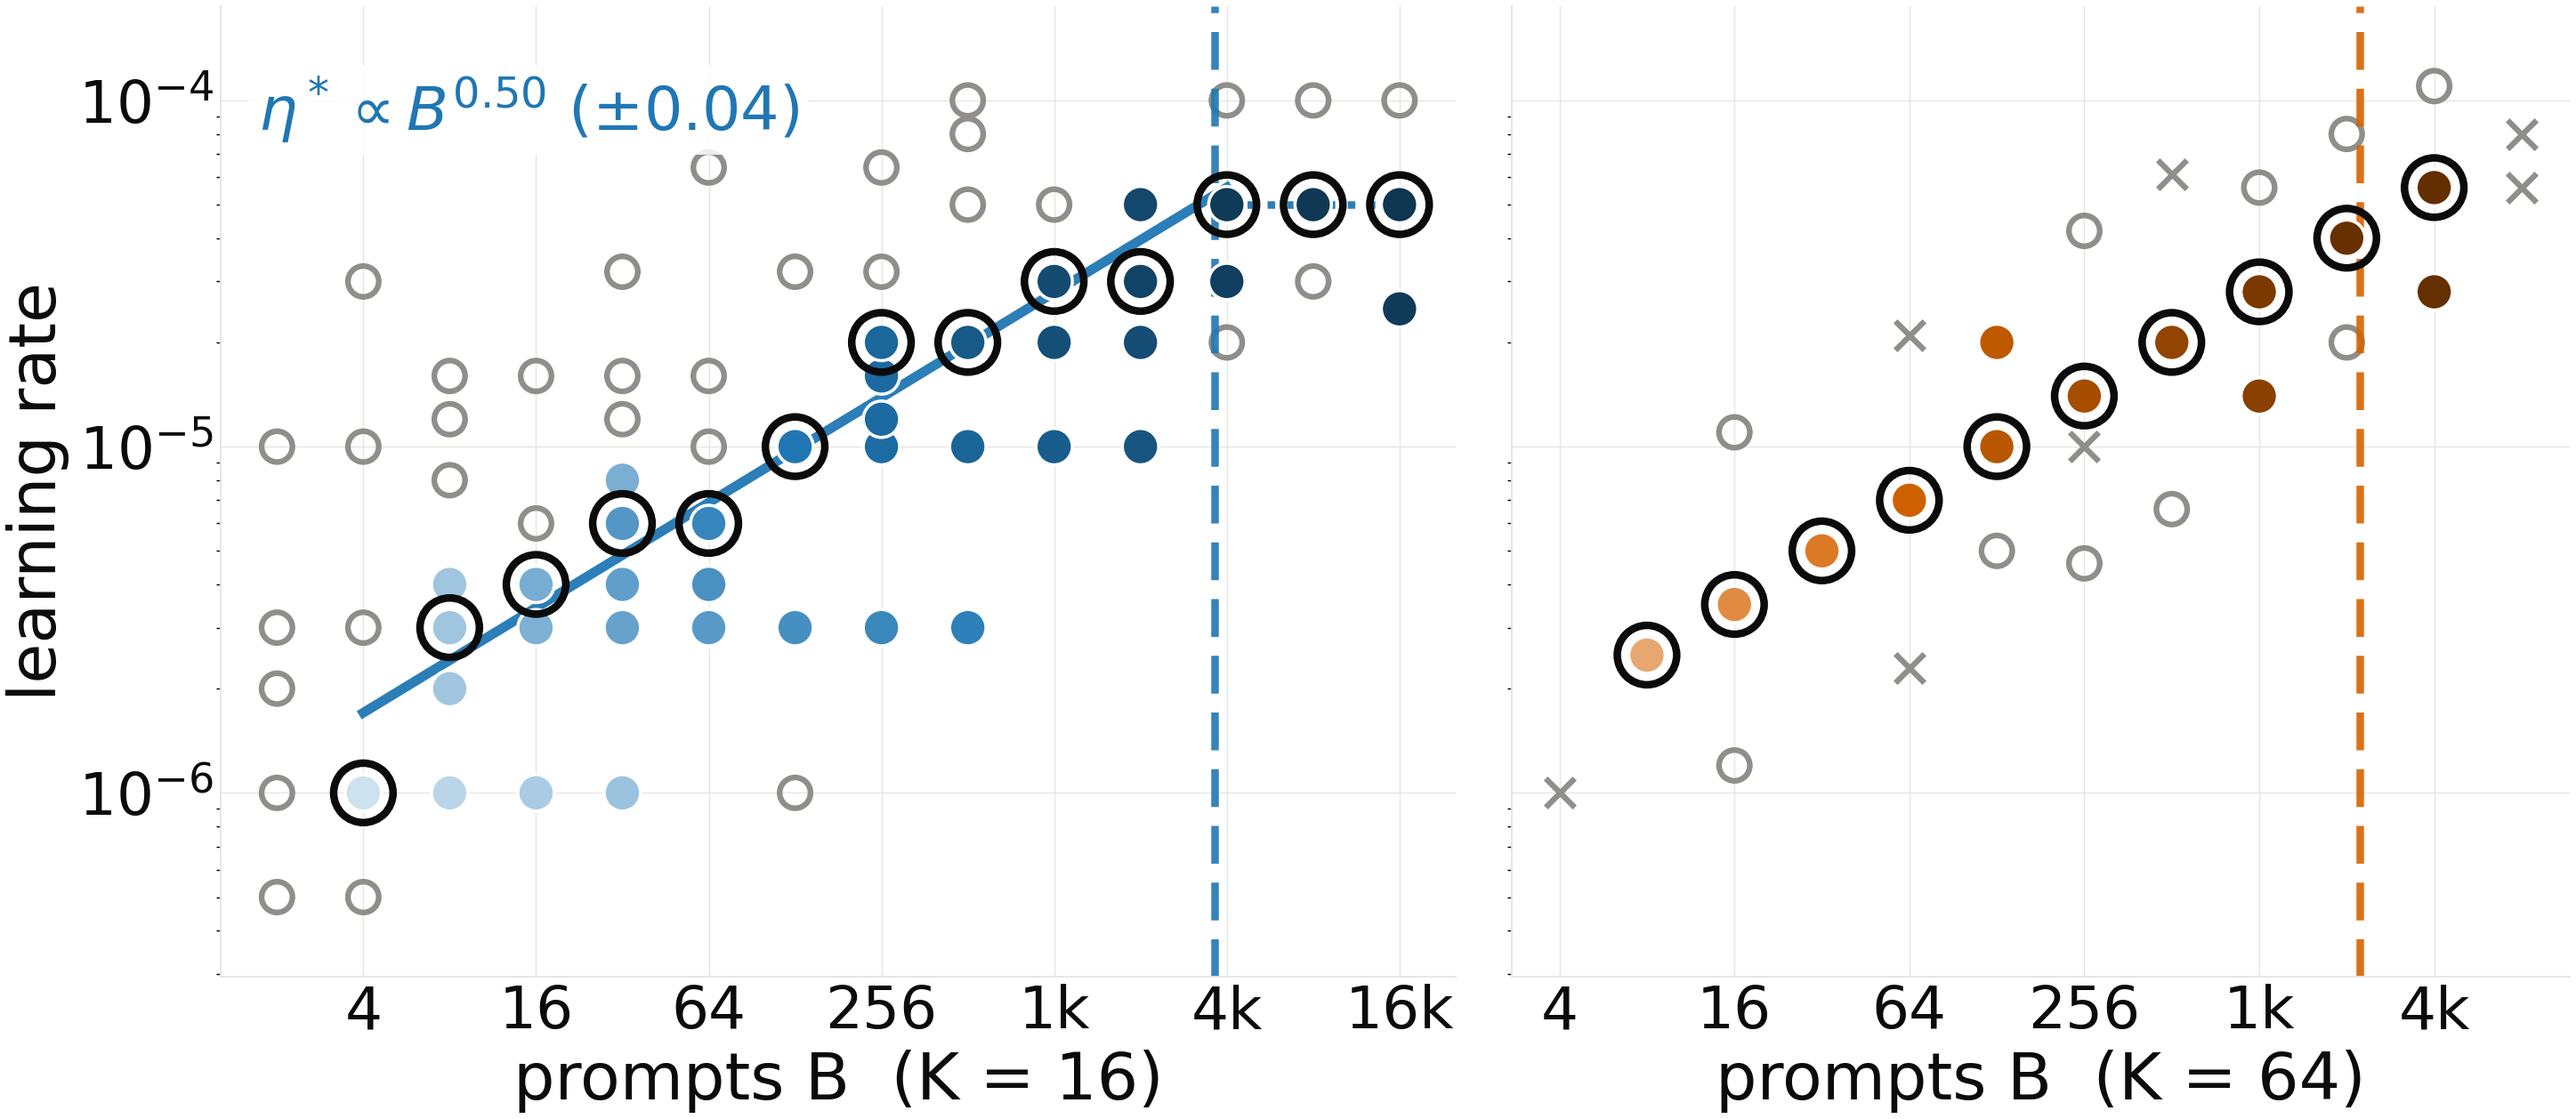
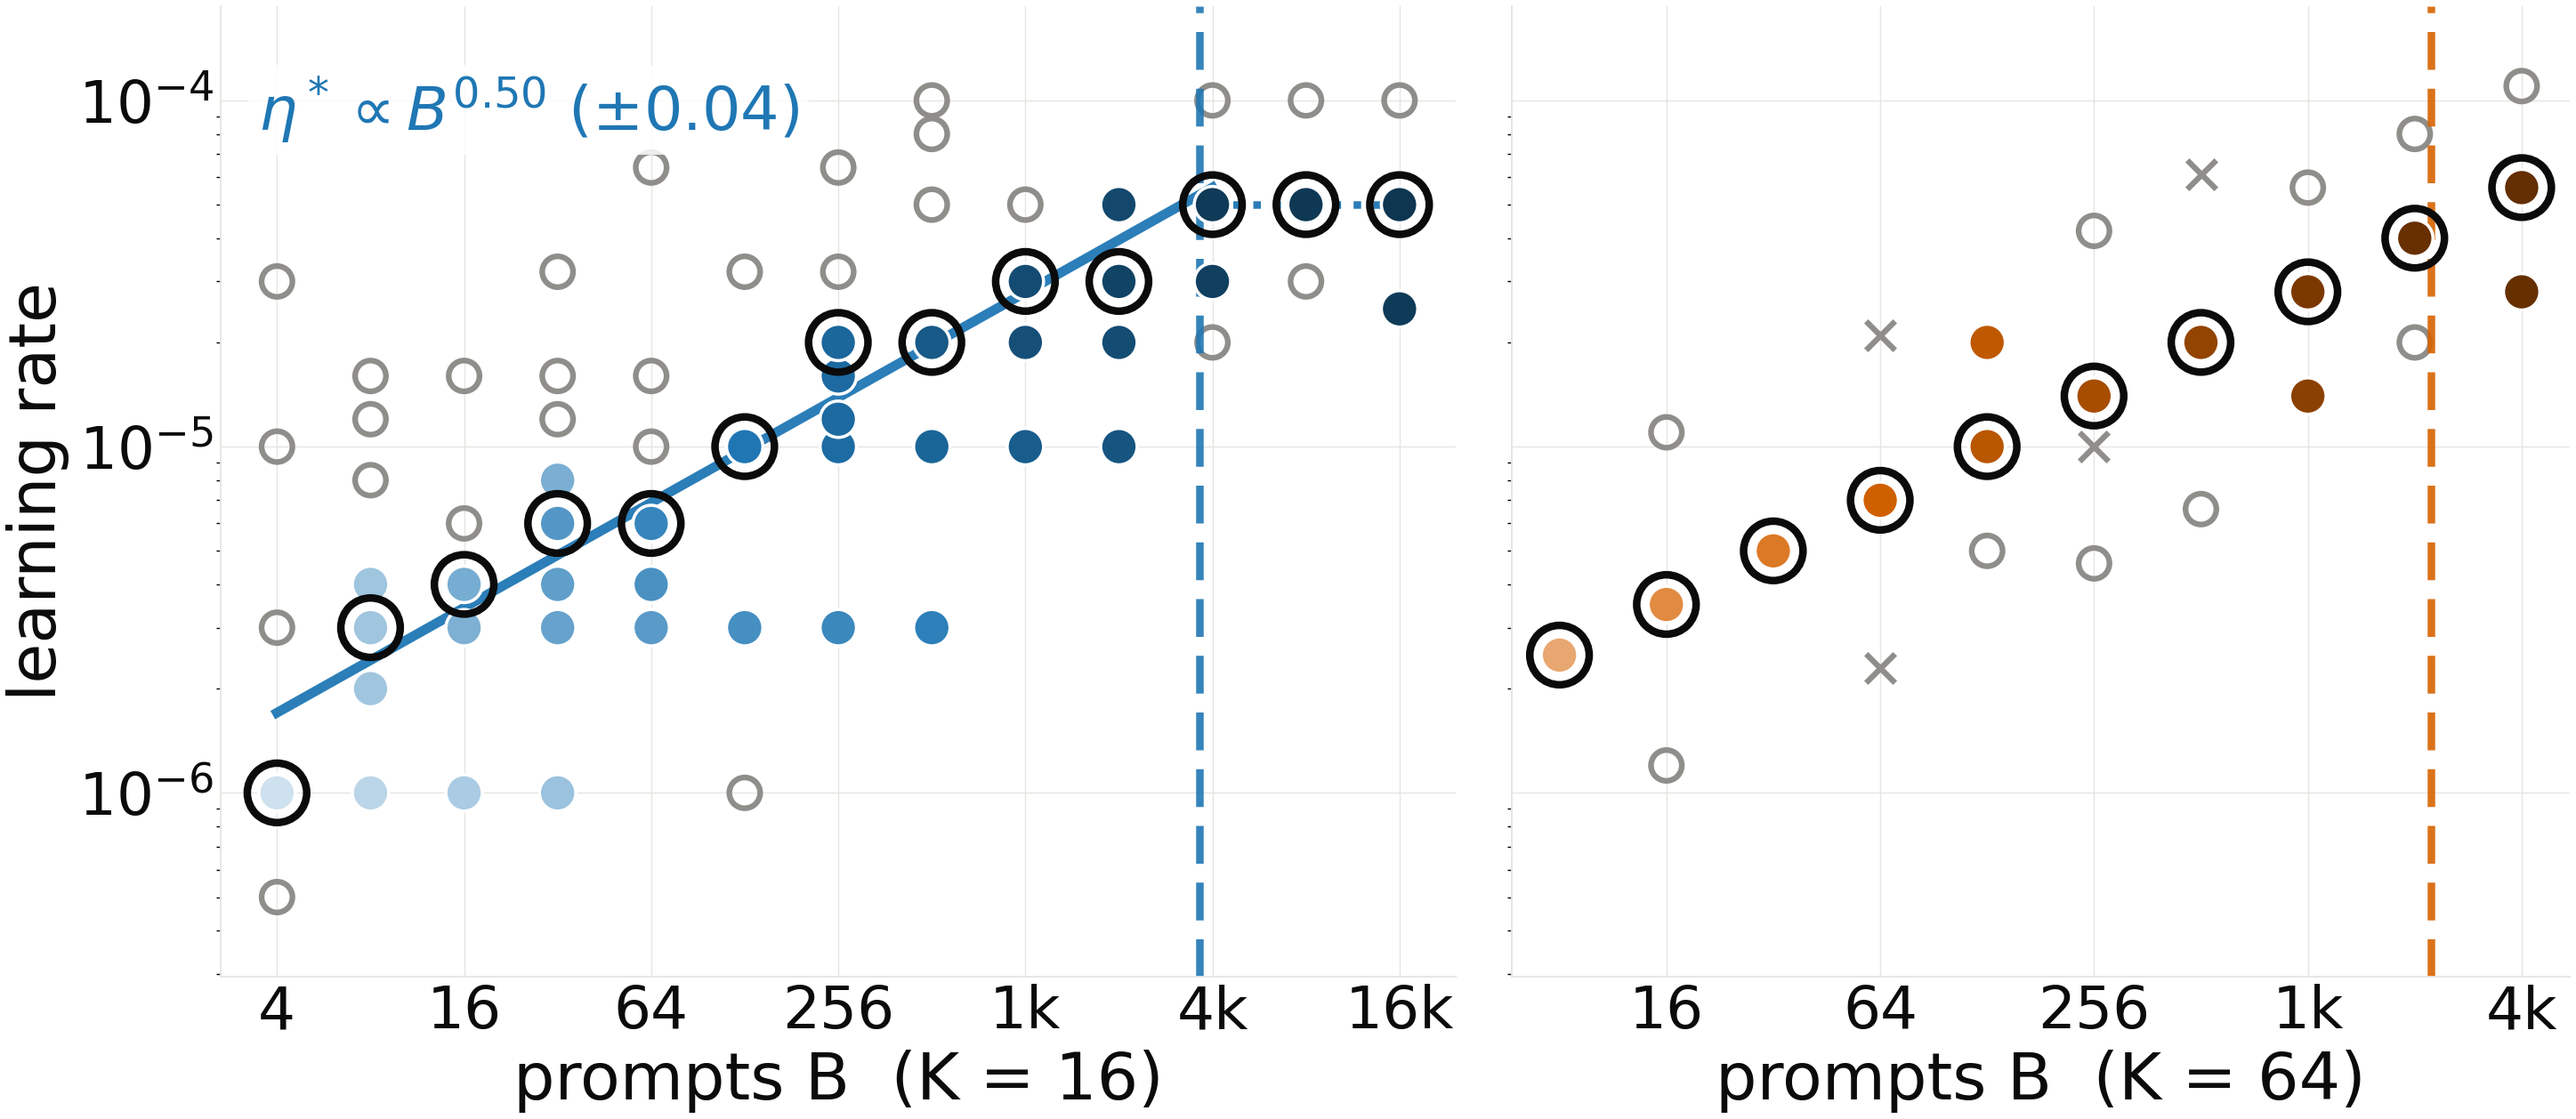
plots: LR split figure drops columns where no LR reached the target; legend says "target"

diff --git a/plots/scripts/plot_steps_to_50_combined.py b/plots/scripts/plot_steps_to_50_combined.py
@@ -108,6 +108,8 @@ def style(ax):
 
 def panel(ax, sub, xcol, xlabel, fit, star=None, cmap=CMAP, hue=None):
     fitc, starc = (hue or FITC), (hue or STARC)      # the fit and the critical-batch line take the panel's Figure 1 hue
+    reached = sub.dropna(subset=["steps"])[xcol].unique()
+    sub = sub[sub[xcol].isin(reached)]               # a column where no LR reached the target is left out
     ok = sub.dropna(subset=["steps"])
     miss = sub[sub["steps"].isna()]
     ref = miss[xcol].map(ok.groupby(xcol)["steps"].min()).fillna(SHORT_STEPS).clip(upper=SHORT_STEPS)
@@ -236,8 +238,8 @@ cb.set_label("steps to target", color=INK, fontsize=CBAR)
 cb.ax.tick_params(colors=INK, labelsize=TICK - 1, length=0); cb.outline.set_visible(False); cb.ax.invert_yaxis()
 
 legend = [
-    Line2D([], [], marker="o", ls="", ms=17, mfc=RAMP[4] if MONO else "#6e6e6e", mec=SURFACE, label=f"reached {PCT}%"),
-    Line2D([], [], marker="o", ls="", ms=17, mfc="none", mec=MISSING, mew=2.7, label=f"did not reach {PCT}%"),   # the condition (trained at least as long as the fastest LR) goes in the caption
+    Line2D([], [], marker="o", ls="", ms=17, mfc=RAMP[4] if MONO else "#6e6e6e", mec=SURFACE, label="reached target"),
+    Line2D([], [], marker="o", ls="", ms=17, mfc="none", mec=MISSING, mew=2.7, label="did not reach target"),   # the condition (trained at least as long as the fastest LR) goes in the caption
     Line2D([], [], marker="x", ls="", ms=15, color=MISSING, mew=2.6, label="too early to tell"),
     Line2D([], [], marker="o", ls="", ms=23, mfc="none", mec=INK, mew=3.6, label="fastest LR at each x"),
     Line2D([], [], ls="-", lw=4.6, color=FITC if MONO else INK2, label="power-law fit (dotted: plateau)" if plateau_b else "power-law fit"),
